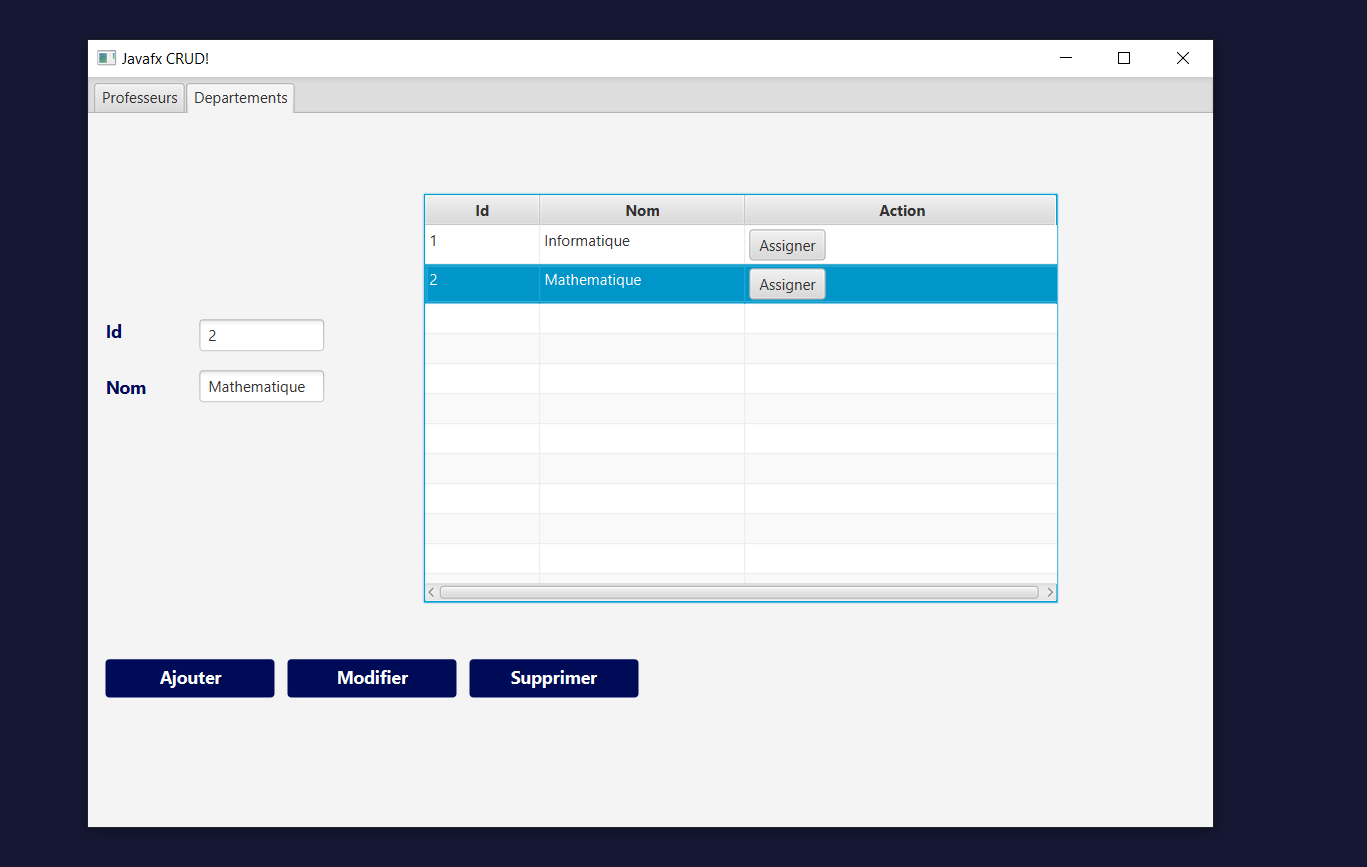
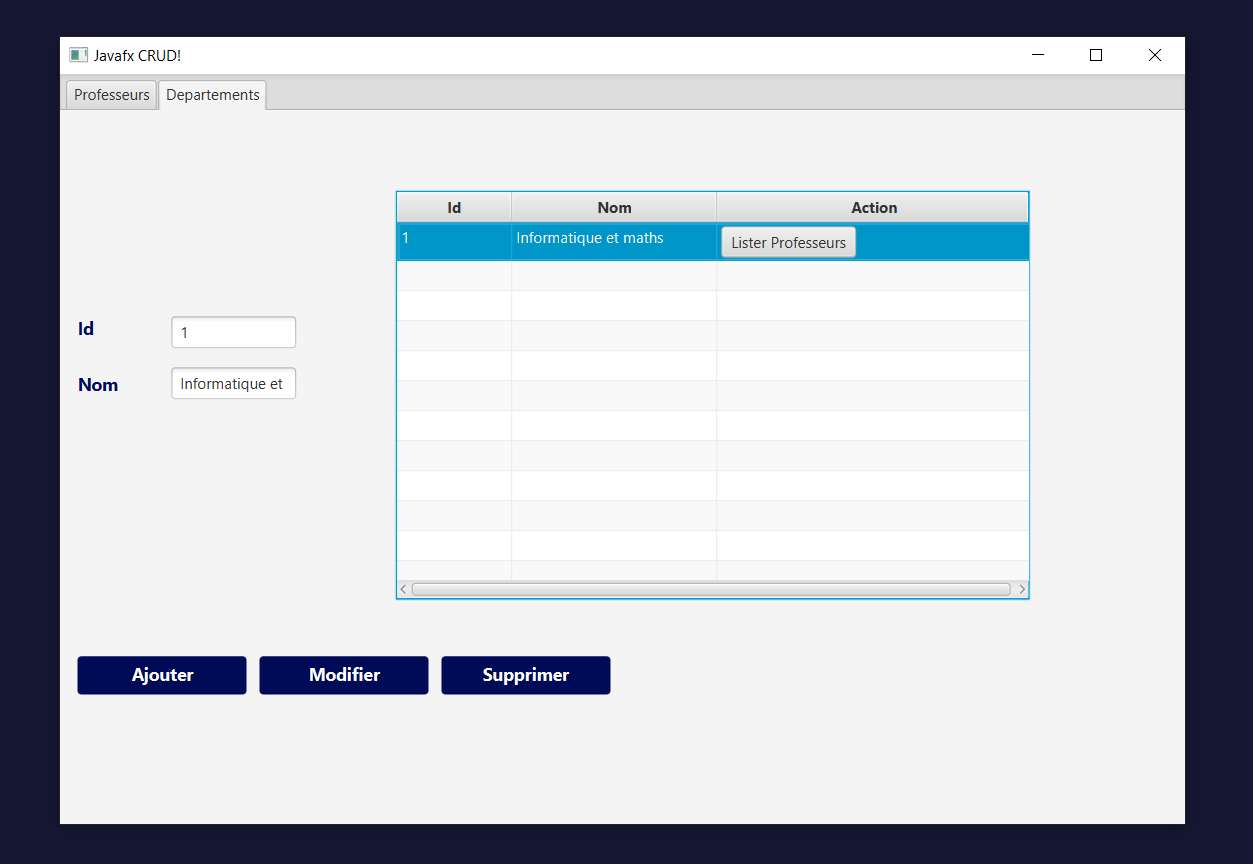
adding screenshotes

diff --git a/java_tp5/src/main/java/com/example/java_tp5/controllers/DepartementController.java b/java_tp5/src/main/java/com/example/java_tp5/controllers/DepartementController.java
@@ -76,7 +76,7 @@ public class DepartementController implements Initializable {
         colNomDep.setCellValueFactory(new PropertyValueFactory<>("nom"));
 
         colActionDep.setCellFactory(param -> new TableCell<>() {
-            private final Button actionButton = new Button("Assigner");
+            private final Button actionButton = new Button("Lister Professeurs");
 
             @Override
             protected void updateItem(Void unused, boolean empty) {
